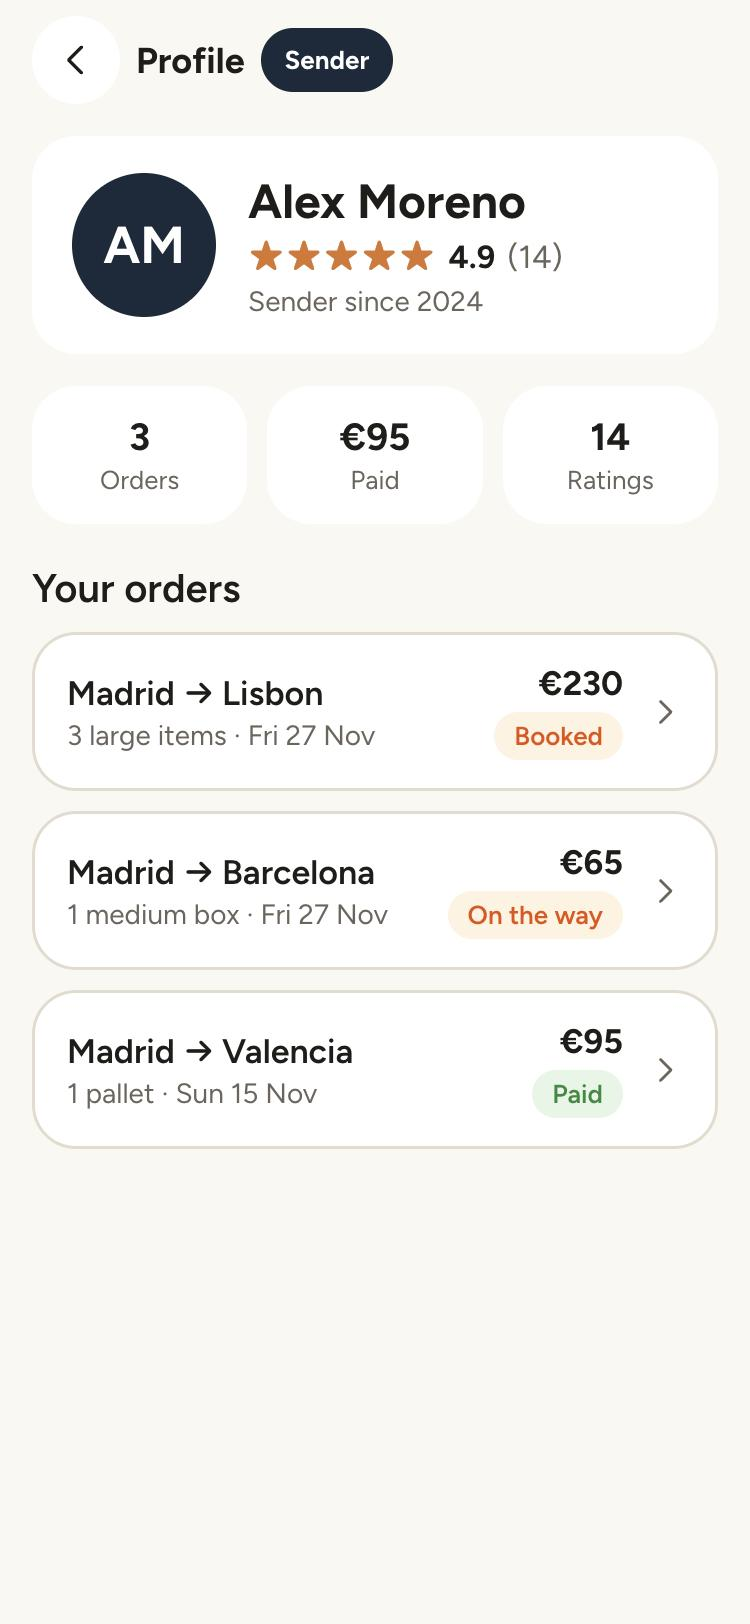
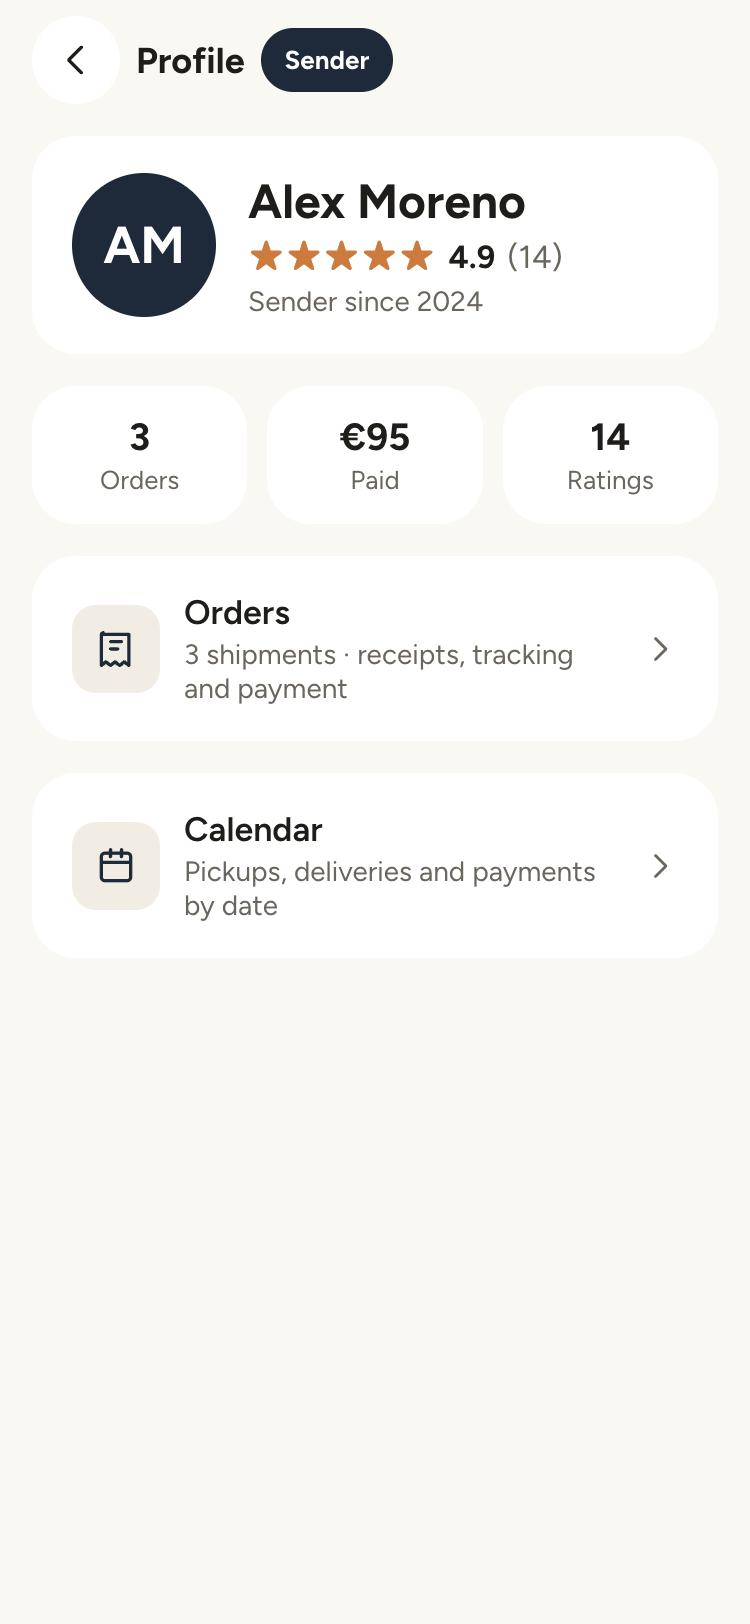
fix orders

diff --git a/src/views/Profile.vue b/src/views/Profile.vue
@@ -1,5 +1,5 @@
 <script setup>
-// One profile page for both sides: #profile is the sender (their orders),
+// One profile page for both sides: #profile is the sender (links to Orders and Calendar),
 // #d-profile is the driver (their completed jobs). Each shows that person's star rating.
 import { computed } from 'vue'
 import { state, go, eur, fmtDay, PROFILES, allOrders } from '../store.js'
@@ -9,8 +9,6 @@ const asDriver = state.route === 'd-profile'
 const me = asDriver ? PROFILES.driver : PROFILES.sender
 const initials = me.name.split(' ').map((w) => w[0]).join('')
 
-const STATUS = { paid: 'Paid', booked: 'Booked', onway: 'On the way', arrived: 'Arrived' }
-
 // Sender: every order. Driver: finished jobs, newest first.
 const rows = computed(() => {
   if (!asDriver) {
@@ -18,7 +16,7 @@ const rows = computed(() => {
       .sort((a, b) => (b.pickup || '').localeCompare(a.pickup || ''))
       .map((o) => ({
         id: o.id, route: `${o.from || 'Madrid'} → ${o.to || o.title}`, sub: `${o.what} · ${fmtDay(o.pickup)}`,
-        price: o.price || 0, badge: STATUS[o.status] || o.status, done: o.status === 'paid', open: () => openOrder(o.id),
+        price: o.price || 0, done: o.status === 'paid',
       }))
   }
   const now = state.driverPackages.filter((p) => p.status === 'delivered').map((p) => ({
@@ -37,10 +35,6 @@ const stats = computed(() => asDriver
   ? [{ n: rows.value.length, label: 'Completed' }, { n: eur(total.value), label: 'Earned' }, { n: '98%', label: 'On time' }]
   : [{ n: rows.value.length, label: 'Orders' }, { n: eur(total.value), label: 'Paid' }, { n: me.ratings, label: 'Ratings' }])
 
-function openOrder(id) {
-  state.openOrder = id
-  go('history')
-}
 function back() {
   go(asDriver ? 'd-packages' : 'photos')
 }
@@ -78,6 +72,15 @@ function back() {
         </div>
       </section>
 
+      <button v-if="!asDriver" class="card link-card" @click="go('history')">
+        <span class="link-icon"><Icon name="receipt" :size="22" /></span>
+        <span class="row-main">
+          <span class="row-route">Orders</span>
+          <span class="muted row-sub">{{ rows.length }} shipment{{ rows.length === 1 ? '' : 's' }} · receipts, tracking and payment</span>
+        </span>
+        <Icon name="next" :size="18" class="muted" />
+      </button>
+
       <button v-if="!asDriver" class="card link-card" @click="go('calendar')">
         <span class="link-icon"><Icon name="calendar" :size="22" /></span>
         <span class="row-main">
@@ -87,22 +90,20 @@ function back() {
         <Icon name="next" :size="18" class="muted" />
       </button>
 
-      <section class="list">
-        <h2 class="section-title">{{ asDriver ? 'Completed orders' : 'Your orders' }}</h2>
-        <p v-if="!rows.length" class="muted">{{ asDriver ? 'No completed jobs yet.' : 'No orders yet.' }}</p>
-        <component :is="r.open ? 'button' : 'div'" v-for="r in rows" :key="r.id" class="row-card" @click="r.open && r.open()">
+      <section v-if="asDriver" class="list">
+        <h2 class="section-title">Completed orders</h2>
+        <p v-if="!rows.length" class="muted">No completed jobs yet.</p>
+        <div v-for="r in rows" :key="r.id" class="row-card">
           <span class="row-main">
             <span class="row-route">{{ r.route }}</span>
             <span class="muted row-sub">{{ r.sub }}</span>
           </span>
           <span class="row-right">
             <span class="row-price">{{ eur(r.price) }}</span>
-            <span v-if="r.badge" class="status-badge" :class="r.done ? 'st-done' : 'st-pending'">{{ r.badge }}</span>
-            <span v-else-if="r.rated" class="row-stars">{{ '★'.repeat(r.rated) }}</span>
+            <span v-if="r.rated" class="row-stars">{{ '★'.repeat(r.rated) }}</span>
             <span v-else class="muted row-sub">Not rated yet</span>
           </span>
-          <Icon v-if="r.open" name="next" :size="18" class="muted" />
-        </component>
+        </div>
       </section>
     </div>
   </div>
@@ -128,7 +129,6 @@ function back() {
 .list { display: flex; flex-direction: column; gap: 10px; }
 .section-title { font-size: 20px; font-weight: 600; margin: 4px 0 0; }
 .row-card { width: 100%; display: flex; align-items: center; gap: 12px; padding: 14px 16px; border: 1.5px solid var(--line); border-radius: var(--radius); background: var(--card); text-align: left; }
-button.row-card:hover { border-color: var(--navy); }
 .row-main { flex: 1; min-width: 0; display: flex; flex-direction: column; gap: 2px; }
 .row-route { font-size: 17px; font-weight: 600; }
 .row-sub { font-size: 14px; }

diff --git a/src/views/History.vue b/src/views/History.vue
@@ -4,8 +4,7 @@ import { state, go, fmtDay, eur, startNew, senderHome, allOrders, payOrder, payL
 import RouteMap from '../components/RouteMap.vue'
 import Icon from '../components/Icon.vue'
 
-const expandedId = ref(state.openOrder || (state.justPaid && state.history.length ? state.history[state.history.length - 1].id : null))
-state.openOrder = null
+const expandedId = ref(state.justPaid && state.history.length ? state.history[state.history.length - 1].id : null)
 
 const orders = computed(() =>
   [...allOrders.value].sort((a, b) => (state.justPaid ? b.id.localeCompare(a.id, undefined, { numeric: true }) : 0) || (b.pickup || '').localeCompare(a.pickup || ''))

diff --git a/src/store.js b/src/store.js
@@ -236,7 +236,6 @@ export const state = reactive({
   driverActive: null, // the package the driver is currently working on
   driverPast: seedDriverPast(),
   driverNotice: null, // banner on the driver dashboard: { kind: 'sent' | 'accepted', text, pkgId }
-  openOrder: null, // order to show expanded when Orders opens
   // where the driver is going, and which countries they take jobs in (empty = all of Europe)
   driverRoute: { from: '', to: '', countries: [], ...(saved && saved.driverRoute ? saved.driverRoute : {}) },
 })

diff --git a/README.md b/README.md
@@ -24,13 +24,13 @@ Every booking is covered by the **CargoMates Promise**: a guaranteed delivery da
 
 | Packages on your route | Chat | Profile and ratings |
 | :---: | :---: | :---: |
-| <img src="docs/screenshots/07-driver-route.jpg" width="200" alt="Driver route from Madrid to Malmö with matching packages listed by detour"> | <img src="docs/screenshots/05-chat.jpg" width="200" alt="Chat between sender and driver"> | <img src="docs/screenshots/06-profile.jpg" width="200" alt="Profile with star rating and list of orders"> |
+| <img src="docs/screenshots/07-driver-route.jpg" width="200" alt="Driver route from Madrid to Malmö with matching packages listed by detour"> | <img src="docs/screenshots/05-chat.jpg" width="200" alt="Chat between sender and driver"> | <img src="docs/screenshots/06-profile.jpg" width="200" alt="Sender profile with star rating, stats, and links to Orders and Calendar"> |
 
 1. **Enter your route** ("I am driving from Madrid to Malmö") and the countries you take jobs in. Packages are grouped into "On your route" and "A bit off your route", each with the extra kilometres it adds.
 2. **Bid** with a price, a pickup time and a pickup place. You go back to your dashboard, where the job waits under "Your active jobs" until the sender accepts.
 3. **Pick up** with photos and get a tracking label. The job shows "In transit" while you drive, and **drop-off** (photo and QR scan) unlocks when you arrive.
 
-Sender and driver talk through an in-app **chat**; the sender's note on the booking is the first message. Senders cannot call drivers, but can ask for a call once the truck is within 30 km. Both sides have a **profile** with a star rating: orders for the sender, completed jobs for the driver.
+Sender and driver talk through an in-app **chat**; the sender's note on the booking is the first message. Senders cannot call drivers, but can ask for a call once the truck is within 30 km. Both sides have a **profile** with a star rating. The sender's links to Orders (receipts, tracking and payment) and the Calendar; the driver's lists completed jobs.
 
 ## Run it
 
